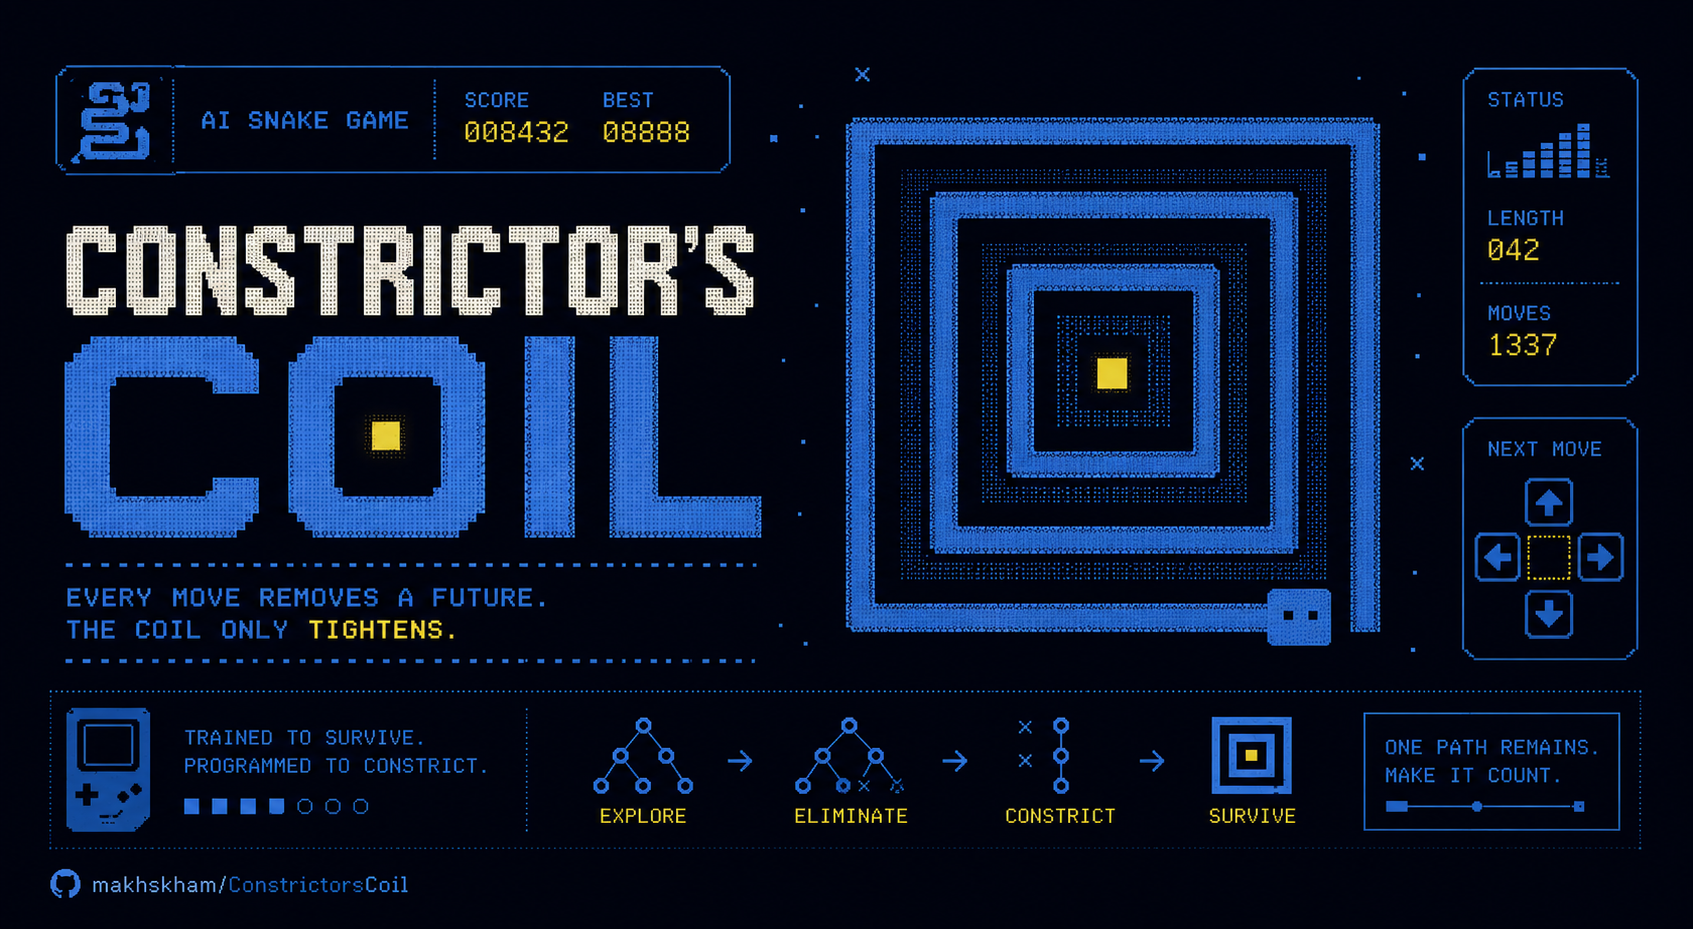
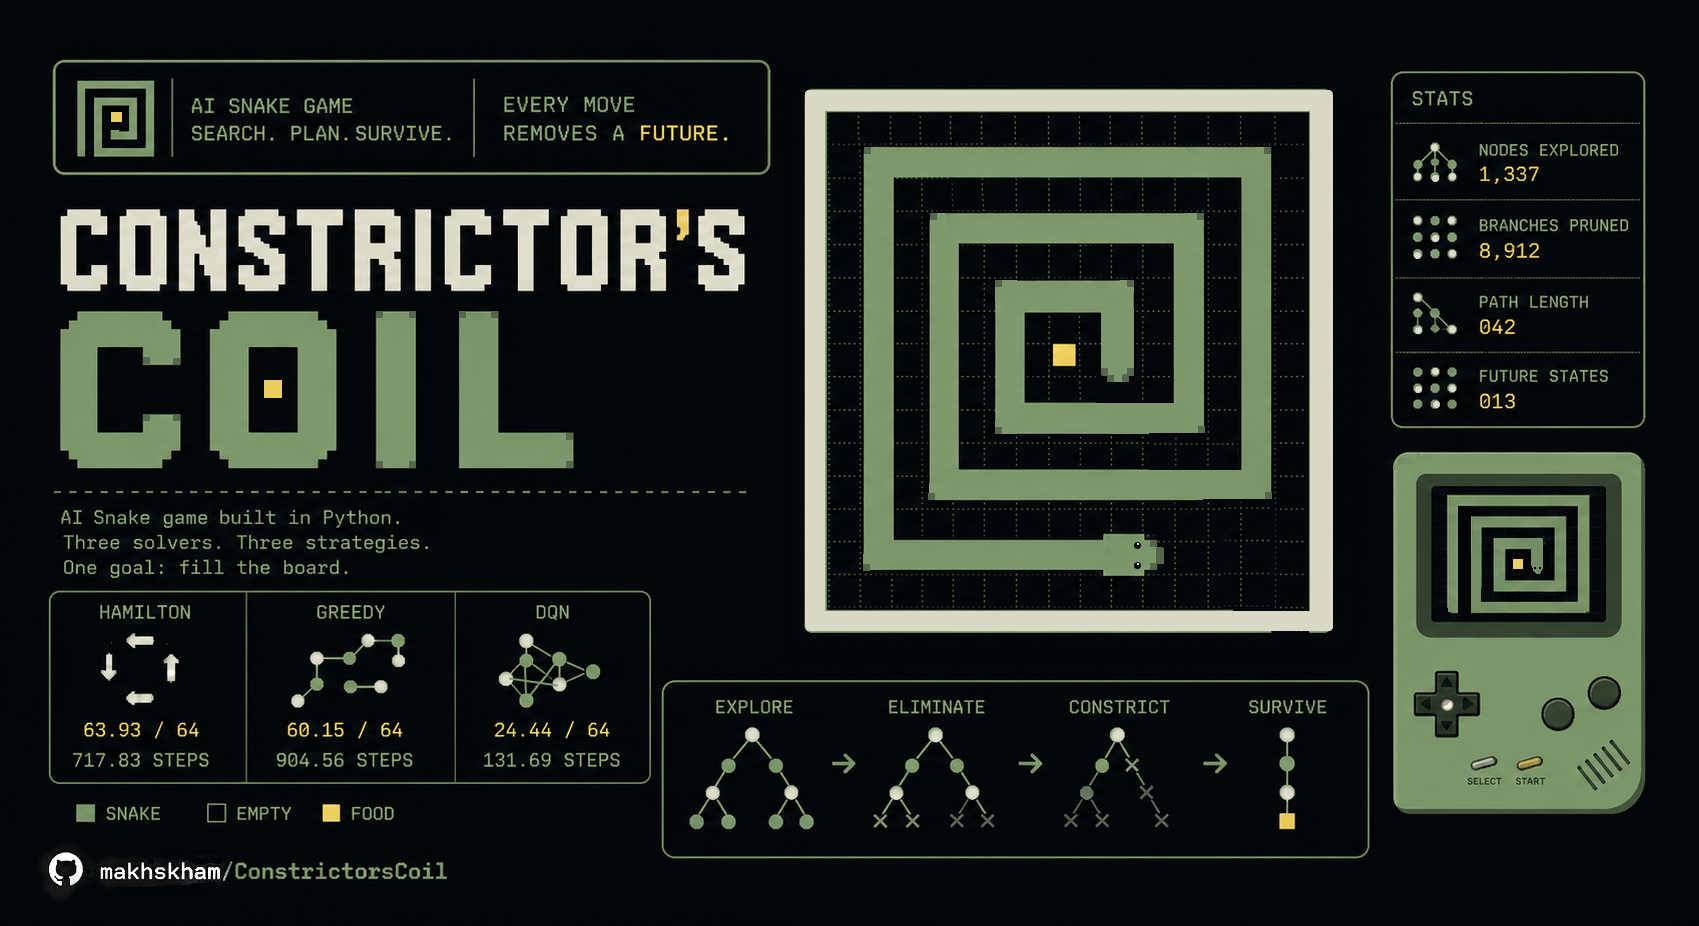
Update cover art and expand README

diff --git a/README.md b/README.md
@@ -4,7 +4,7 @@
 
 [![Project Presentation](https://img.shields.io/badge/Website-Behind_the_Scenes-blue)](https://aisnakegame.my.canva.site/)
 
-A Snake game AI built in Python, implementing three distinct solvers ranging from classical graph algorithms to deep reinforcement learning. The Hamilton solver achieves near-perfect play, filling 99.9% of the map on average.
+A Snake game AI built in Python, implementing four solvers ranging from classical graph algorithms to deep reinforcement learning. The Hamilton solver achieves near-perfect play, filling 99.9% of the map on average.
 
 > Not because it's a snake. Because every successful action literally constricts future possibilities. The snake isn't just growing. It is tightening the noose around itself.
 
@@ -12,23 +12,24 @@ A Snake game AI built in Python, implementing three distinct solvers ranging fro
 
 ## About
 
-The project focuses on the artificial intelligence of the [Snake][snake-wiki] game. The snake's goal is to eat food continuously and fill the map with its body as quickly as possible. This version is written in Python for a user-friendly GUI and cleaner algorithm implementations.
+The project focuses on the artificial intelligence of the [Snake][snake-wiki] game. The snake's goal is to eat food continuously and fill the map with its body as quickly as possible. This version is written in Python with a Tkinter GUI and clean, modular algorithm implementations.
 
-The game runs on an 8x8 grid (64 cells). The snake starts at the top-left corner facing right, with an initial length of 4. It can eat at most 60 pieces of food before filling the entire map.
+The game runs on an 8x8 grid (64 cells). The snake starts near the top-left corner facing right, with an initial length of 4. It can eat at most 60 pieces of food before filling the entire map.
+
+Two families of solvers are implemented: classical graph-search solvers that are deterministic and explainable, and reinforcement learning solvers that learn through self-play. The graph-search solvers significantly outperform the RL solvers on this grid size, because the credit assignment problem is hard over long episodes.
 
 ---
 
 ## Solvers
 
-Three solvers are implemented, each making different tradeoffs between completeness and computational cost.
-
-| Solver | Strategy | Average Length | Average Steps |
-| :----: | :------: | :------------: | :-----------: |
+| Solver | Strategy | Avg Length | Avg Steps |
+| :----: | :------: | :--------: | :-------: |
 | [Hamilton][doc-hamilton] | Hamiltonian cycle with shortcuts | 63.93 / 64 | 717.83 |
 | [Greedy][doc-greedy] | Shortest path with safety lookahead | 60.15 / 64 | 904.56 |
-| [DQN][doc-dqn] (experimental) | Deep Q-Network | 24.44 / 64 | 131.69 |
+| [DQN (TF)][doc-dqn] | Deep Q-Network (TensorFlow) | 24.44 / 64 | 131.69 |
+| DQN (PyTorch) | Double DQN, requires training | -- | -- |
 
-Results averaged over 1000 episodes each.
+Results for the first three solvers averaged over 1000 episodes. The PyTorch DQN solver is untested until retrained -- see [Training](#training).
 
 ---
 
@@ -40,7 +41,7 @@ Results averaged over 1000 episodes each.
 
 Builds a Hamiltonian cycle across all 64 cells, then directs the snake along it. Because following the full cycle is inefficient, the solver takes shortcuts when it can safely skip ahead in the path without getting cut off.
 
-The cycle is constructed once at the start by fixing the snake's initial head and body positions, then computing the longest path from head to tail, and joining the endpoints into a cycle. Shortcut eligibility is checked at each step using the path index difference between the snake's head and the food.
+The cycle is constructed once at the start by fixing the snake's initial head and body positions, then computing the longest path from head to tail and joining the endpoints into a cycle. Shortcut eligibility is checked at each step using the path index difference between the snake's head and the food.
 
 This guarantees the snake never collides with itself and eventually fills the entire board. The average length of 63.93 reflects the rare cases where shortcuts slightly perturb the finishing position.
 
@@ -48,7 +49,7 @@ This guarantees the snake never collides with itself and eventually fills the en
 
 ![][demo-greedy]
 
-At each step, the solver attempts to eat food along the shortest path. Before committing, it simulates the move and checks whether the snake's head can still reach its own tail afterward (a proxy for long-term survival). If the safety check fails, the snake wanders by following the longest path to its tail instead.
+At each step, the solver attempts to eat food along the shortest path. Before committing, it simulates the move and checks whether the snake's head can still reach its own tail afterward -- a proxy for long-term survival. If the safety check fails, the snake wanders by following the longest path to its tail instead.
 
 Decision sequence per step:
 1. Find shortest path P1 from head to food. If none, go to step 4.
@@ -61,11 +62,19 @@ Decision sequence per step:
 
 ![][demo-dqn]
 
-Uses a Deep Q-Network trained with three optimizations applied simultaneously: Double DQN, Prioritized Experience Replay, and Dueling Network Architecture. The agent is trained in relative direction mode (the snake's frame of reference, not the map's), which leverages the game's rotational symmetry to improve sample efficiency.
+Two DQN implementations are included.
 
-The state vector has two components. The global state is an 8x8x4 binary encoding of each cell's content (head, body, food, or empty). The local state is a 3-value binary vector indicating whether the cell directly ahead, left, or right of the head is dangerous.
+**TensorFlow version** (`-s dqn`): Uses a convolutional network with four conv layers (32, 64, 128, 256 filters) and two fully connected layers, trained with three simultaneous optimizations: Double DQN for stable target computation, Prioritized Experience Replay to focus learning on surprising transitions, and Dueling Network Architecture to separate state value from action advantage.
 
-The DQN solver is experimental. It plateaus well below the classical solvers because the credit assignment problem is hard: the reward for each food piece is separated from the eventual collision by hundreds of steps.
+**PyTorch version** (`-s dqn_torch`): Two conv layers (32, 64 filters) followed by two fully connected layers (256, 128 units), trained with Double DQN and soft target network updates. Epsilon decays linearly from 1.0 to 0.01 over 50k episodes.
+
+Both versions use relative direction mode: actions are left, straight, or right relative to the snake's current heading rather than absolute map directions. This leverages rotational symmetry -- the network sees equivalent game states as equivalent inputs regardless of which way the snake is facing.
+
+The state vector has two components:
+- **Grid channels (8x8x4):** binary encodings of food position, body segments (normalized by snake length), head position, and danger cells (body segments that are not the tail)
+- **Extra features (9):** one-hot current direction (4), one-hot food direction (4), normalized Manhattan distance to food (1)
+
+The DQN solvers plateau below the classical solvers. The reward for each food piece is separated from the eventual collision by hundreds of steps, making credit assignment difficult.
 
 ---
 
@@ -80,15 +89,15 @@ Tested with 1000 episodes per solver. Two metrics:
 | :----: | :------------: | :-----------: |
 | Hamilton | 63.93 | 717.83 |
 | Greedy | 60.15 | 904.56 |
-| DQN | 24.44 | 131.69 |
+| DQN (TF) | 24.44 | 131.69 |
 
-The Hamilton solver is 6% longer on average than Greedy, but uses 21% fewer steps, because shortcuts aggressively reduce wasted movement. The DQN solver underperforms both classical approaches by a wide margin under default training conditions.
+The Hamilton solver is 6% longer on average than Greedy, but uses 21% fewer steps, because shortcuts aggressively reduce wasted movement. The DQN solvers underperform both classical approaches by a wide margin.
 
 ---
 
 ## Installation
 
-Requirements: Python 3.6+ with [Tkinter][doc-tkinter] installed.
+Requirements: Python 3.10+ with [Tkinter][doc-tkinter] installed (included with standard Python on Windows and macOS).
 
 ```bash
 pip install -r requirements.txt
@@ -104,30 +113,44 @@ python run.py -s hamilton
 # Greedy
 python run.py -s greedy
 
-# DQN (TensorFlow, requires trained model in logs/)
+# DQN -- TensorFlow (requires tensorflow and a trained model in logs/)
 python run.py -s dqn
 
-# DQN PyTorch (requires model.pt in project root)
+# DQN -- PyTorch (requires model.pt in project root, see Training)
 python run.py -s dqn_torch
 
-# Benchmark mode (1000 episodes, no GUI)
+# Benchmark mode (runs N episodes without GUI, prompts for episode count)
 python run.py -s hamilton -m bcmk
 ```
 
-Train the PyTorch DQN solver:
+Controls during play: `W/A/S/D` to override direction, `Space` to pause, `R` to restart, `Esc` to quit.
+
+---
+
+## Training
+
+The PyTorch DQN solver must be trained before use. Training runs headless (no GUI) and logs progress every 200 episodes.
 
 ```bash
 python train.py
-# optional flags:
+# optional:
 python train.py --episodes 100000 --out model.pt
 ```
 
-After training completes, rename the output file to `model.pt` in the project root.
+Expected progress on a CUDA GPU:
 
-Run unit tests:
+```
+Episode:  50000 | Avg reward/score:  44.97 / 17.56 | Elapsed:   67 mins | Device: cuda
+Episode: 100000 | Avg reward/score: 140.22 / 22.93 | Elapsed:  422 mins | Device: cuda
+```
+
+When training finishes, output is saved as `model.pt.tmp.<timestamp>`. Rename it to `model.pt` in the project root, then run with `-s dqn_torch`.
+
+To train the TensorFlow DQN solver through the game loop:
 
 ```bash
-python -m pytest
+python run.py -s dqn -m train_dqn      # headless
+python run.py -s dqn -m train_dqn_gui  # with GUI
 ```
 
 ---
@@ -136,28 +159,29 @@ python -m pytest
 
 ```
 ConstrictorsCoil/
-├── run.py               # entrypoint, CLI argument parsing
-├── train.py             # standalone PyTorch DQN training script
+├── run.py                   # entrypoint, CLI argument parsing
+├── train.py                 # standalone PyTorch DQN training script
 ├── requirements.txt
 ├── constrictorscoil/
-│   ├── game.py          # game loop, config, modes
-│   ├── gui.py           # Tkinter rendering
+│   ├── game.py              # game loop, config, modes
+│   ├── gui.py               # Tkinter rendering
 │   ├── base/
-│   │   ├── snake.py     # snake state and movement
-│   │   ├── map.py       # game grid, cell types
-│   │   ├── point.py     # coordinate primitive
-│   │   ├── pos.py       # position utilities
-│   │   └── direc.py     # direction enum
+│   │   ├── snake.py         # snake state and movement
+│   │   ├── map.py           # game grid, cell types
+│   │   ├── point.py         # coordinate primitive
+│   │   ├── pos.py           # position utilities
+│   │   └── direc.py         # direction enum
 │   └── solver/
-│       ├── base.py      # BaseSolver interface
-│       ├── path.py      # BFS shortest path, heuristic longest path
-│       ├── greedy.py    # Greedy solver
-│       ├── hamilton.py  # Hamilton solver
-│       ├── dqn/         # DQN solver (TensorFlow)
-│       └── dqn_torch/   # DQN solver (PyTorch, Double DQN)
+│       ├── base.py          # BaseSolver interface
+│       ├── path.py          # BFS shortest path, heuristic longest path
+│       ├── greedy.py        # Greedy solver
+│       ├── hamilton.py      # Hamilton solver
+│       ├── dqn/             # DQN solver (TensorFlow)
+│       └── dqn_torch/       # DQN solver (PyTorch, Double DQN)
+├── assets/                  # cover art
 ├── docs/
-│   ├── algorithms.md    # algorithm writeups with diagrams
-│   └── images/          # demo GIFs, architecture diagrams
+│   ├── algorithms.md        # algorithm writeups with diagrams
+│   └── images/              # demo GIFs, architecture diagrams
 ├── tests/
 └── tools/
 ```
@@ -166,11 +190,13 @@ ConstrictorsCoil/
 
 ## Design Decisions
 
-**Why Hamiltonian cycle for the strongest solver?** The snake game on a finite grid is a path-covering problem. A Hamiltonian cycle visits every cell exactly once, making it impossible to trap yourself. The only cost is inefficiency: without shortcuts, the snake spirals through the whole board even when the food is one step away. The shortcut logic recovers most of that efficiency while preserving safety.
+**Why Hamiltonian cycle for the strongest solver?** The snake game on a finite grid is a path-covering problem. A Hamiltonian cycle visits every cell exactly once, making it impossible to trap yourself. The only cost is inefficiency: without shortcuts, the snake spirals through the whole board even when the food is one step away. The shortcut logic recovers most of that efficiency while preserving the safety guarantee.
 
-**Why relative direction for DQN?** The game map is symmetric under rotation. Training in the snake's own reference frame means the network sees equivalent situations as equivalent states rather than four different encodings depending on which way the snake is facing. Experimental results confirm this roughly doubles training efficiency.
+**Why relative direction for DQN?** The game map is symmetric under rotation. Training in the snake's own reference frame means the network sees equivalent situations as equivalent states rather than four different encodings depending on which way the snake is facing. This roughly doubles sample efficiency.
 
 **Why BFS for shortest path and a heuristic for longest?** Shortest path on an unweighted grid is exactly what BFS solves optimally. Longest path on a general graph is NP-hard. The heuristic used here extends the shortest path by iteratively pushing path segments outward when space allows, producing good-enough results for the 8x8 grid without exponential cost.
+
+**Why two DQN implementations?** The TensorFlow solver uses an older but more feature-complete training setup (Prioritized Experience Replay, Dueling Networks). The PyTorch solver uses a cleaner, more modern codebase with Double DQN and soft target updates, and is easier to extend and retrain.
 
 ---
 